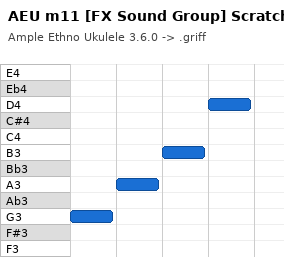
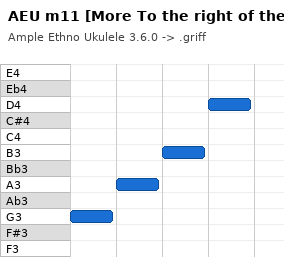
griff: AEU si ABMR5 primesc al 5-lea meniu (More To the right: No Bend/Bend/Bend-Release/Release)
Regenerat pt. cele doua chitari: .abc, .txt si <CODE>_complet.png cu masurile
de bend incluse (AEU 25 masuri, ABMR5 28). catalog_riffer.json + INSTRUCTIUNI
actualizate.

Changed region(s): [[0.3099, 0.0301, 1.0, 0.0902]]

diff --git a/scripts/genereaza-secventa-griff.py b/scripts/genereaza-secventa-griff.py
@@ -78,6 +78,7 @@ CATALOG = {
             "articulatii": [("Sustain", None), ("Natural Harmonic", None), ("Palm Mute", None),
                             ("Slide In", None), ("Strum", None)],
             "legato": ["No Legato", "Legato Slide", "HO/PO", "Slide Out"],
+            "bend": ["No Bend", "Bend", "Bend/Release", "Release"],
             "single": [("Slide Out", "D#0")],
             "fx": [("Scratch", None), ("Slap", None), ("Silent Press", None), ("Silent Stroke", None),
                    ("Downstroke Noise 1", None), ("Upstroke Noise 1", None),
@@ -112,6 +113,7 @@ CATALOG = {
               "articulatii": [("Sustain", None), ("Natural Harmonic", None), ("Palm Mute", None),
                               ("Slide In", None), ("Repeat", None)],
               "legato": ["No Legato", "Legato Slide", "HO/PO", "Slide Out"],
+              "bend": ["No Bend", "Bend", "Bend/Release", "Release"],
               "single": [("Slide Out", "D#0")],
               "fx": [("Slap Left", None), ("Slap Right", None), ("Downstroke Noise", None),
                      ("Upstroke Noise", None), ("Scratch 1", None), ("Scratch 2", None),
@@ -168,15 +170,15 @@ def scrie_abc(code, info, masuri, cale):
 
 
 def plan_instrument(info):
-    """Masuri in ordinea sectiunilor: articulatii, legato, single, fx."""
+    """Masuri in ordinea sectiunilor: articulatii, legato, [bend], single, fx."""
+    sectiuni = [("Articulations", "articulatii"), ("Legato", "legato")]
+    if "bend" in info:   # doar AEU si ABMR5 au al 5-lea meniu (More To the right)
+        sectiuni.append(("More To the right of the Articulations", "bend"))
+    sectiuni += [("Articulation Sound Single", "single"), ("FX Sound Group", "fx")]
     masuri = []
-    for sect, cheie in (("Articulations", "articulatii"), ("Legato", "legato"),
-                        ("Articulation Sound Single", "single"), ("FX Sound Group", "fx")):
+    for sect, cheie in sectiuni:
         for intr in info[cheie]:
-            if sect == "Legato":
-                nume, ks = intr, None
-            else:
-                nume, ks = intr
+            nume, ks = intr if isinstance(intr, tuple) else (intr, None)
             masuri.append({"sectiune": sect, "nume": nume, "ks": ks,
                            "note": fraza(info["categorie"])})
     return masuri

diff --git a/documente/griff/INSTRUCTIUNI-EXPORT-v2.md b/documente/griff/INSTRUCTIUNI-EXPORT-v2.md
@@ -13,8 +13,11 @@ Fiecare instrument are propriul folder `secventa_v2/<CODE>/` cu un `.txt`
 3. **Articulation Sound Single** — sunete de articulație izolate (ex. `Slide Out (D#0)`).
 4. **FX Sound Group** — sunetele FX (cu keyswitch, ex. `Pick Scrape (F6)`).
 
+La **AEU** și **ABMR5** mai există un al 5‑lea meniu, **More To the right of the
+Articulations** (`No Bend / Bend / Bend/Release / Release`), inclus în planul lor.
+
 Articulațiile încadrate la *corpul chitarei* **NU** sunt incluse — lista conține
-doar cele 4 secțiuni de mai sus.
+doar secțiunile Riffer de mai sus.
 
 ## Formatul fișierului exportat
 
